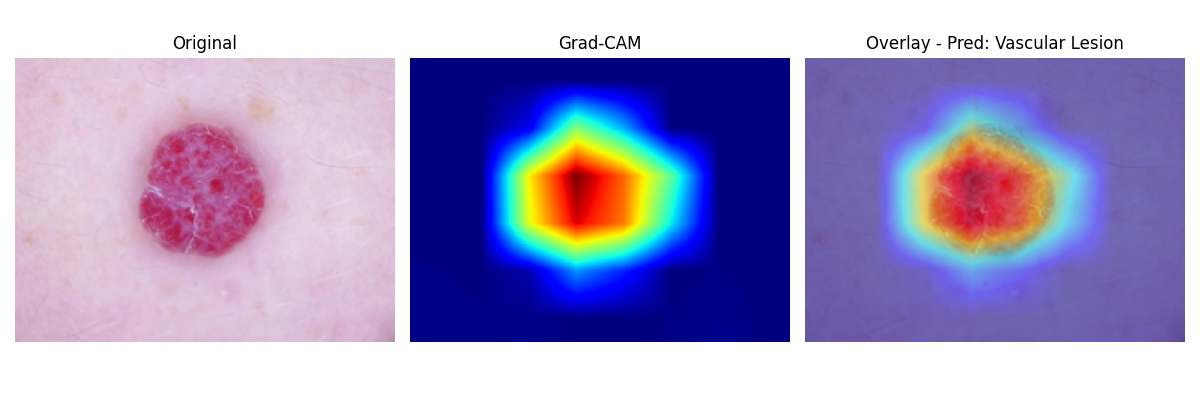
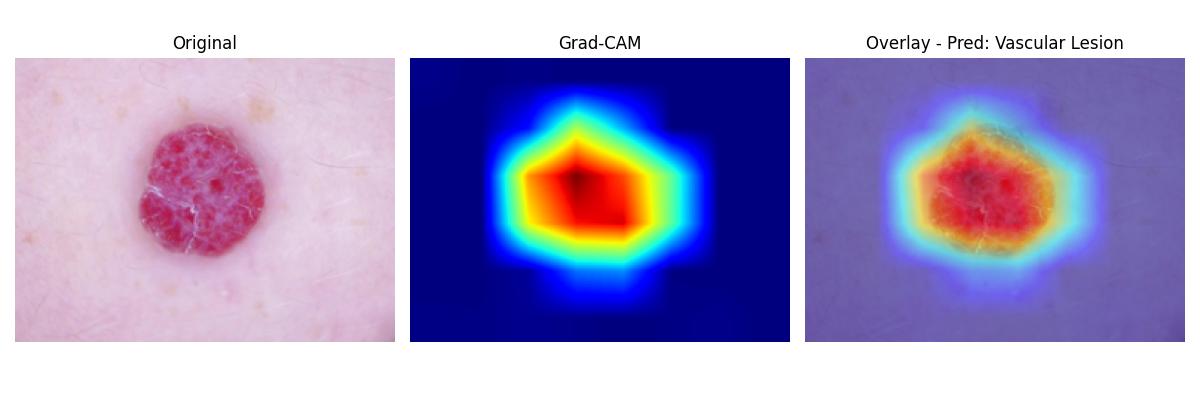
added better gradcam figure

Changed region(s): [[0.4008, 0.24, 0.5858, 0.78], [0.8017, 0.45, 0.925, 0.72], [0.74, 0.33, 0.8017, 0.51]]

diff --git a/main_improved.py b/main_improved.py
@@ -408,8 +408,8 @@ def main():
     return model, test_dataset
 
 #%% Run Training (just comment out if you just want evaluation)
-if __name__ == '__main__':
-    model, test_dataset = main()
+# if __name__ == '__main__':
+#     model, test_dataset = main()
 
 #%% EVALUATION ONLY - Load saved model and generate report results
 def evaluate_saved_model():
@@ -478,12 +478,19 @@ def evaluate_saved_model():
     plt.show()
     print("Saved: confusion_matrix_improved.png")
     
-    # Grad-CAM for each class
+    # Grad-CAM for all classes in a single figure
     print("\n" + "="*60)
     print("GENERATING GRAD-CAM VISUALIZATIONS")
     print("="*60)
     save_dir = 'gradcam_images_improved'
     os.makedirs(save_dir, exist_ok=True)
+    
+    model.eval()
+    target_layer = model.backbone.features[-1]
+    gradcam = GradCAM(model, target_layer)
+    
+    fig, axes = plt.subplots(7, 3, figsize=(15, 28))
+    
     for i, class_name in enumerate(CLASSES):
         sample = metadata[metadata['dx'] == class_name].iloc[0]
         img_name = sample['image_id'] + '.jpg'
@@ -491,8 +498,33 @@ def evaluate_saved_model():
             img_path = img_dir / img_name
             if img_path.exists():
                 print(f"  {CLASS_NAMES[i]}...")
-                visualize_gradcam(model, str(img_path), get_transforms('test'), f'{save_dir}/gradcam_improved_{class_name}.png')
+                img = Image.open(str(img_path)).convert('RGB')
+                input_tensor = get_transforms('test')(img).unsqueeze(0).to(device)
+                cam, pred_class = gradcam.generate_cam(input_tensor)
+                
+                img_resized = img.resize((256, 192))
+                img_array = np.array(img_resized) / 255.0
+                heatmap = cv2.applyColorMap(np.uint8(255 * cam), cv2.COLORMAP_JET)
+                heatmap = cv2.cvtColor(heatmap, cv2.COLOR_BGR2RGB) / 255.0
+                overlay = 0.5 * img_array + 0.5 * heatmap
+                
+                axes[i, 0].imshow(img_array)
+                axes[i, 0].set_title(f'{CLASS_NAMES[i]} - Original', fontsize=15, fontweight='bold')
+                axes[i, 0].axis('off')
+                
+                axes[i, 1].imshow(cam, cmap='jet')
+                axes[i, 1].set_title(f'{CLASS_NAMES[i]} - Grad-CAM', fontsize=15, fontweight='bold')
+                axes[i, 1].axis('off')
+                
+                axes[i, 2].imshow(overlay)
+                axes[i, 2].set_title(f'{CLASS_NAMES[i]} - Overlay (Pred: {CLASS_NAMES[pred_class]})', fontsize=15, fontweight='bold')
+                axes[i, 2].axis('off')
                 break
+    
+    plt.tight_layout()
+    plt.savefig(f'{save_dir}/gradcam_all_classes.png', dpi=150, bbox_inches='tight')
+    plt.show()
+    print(f"Saved: {save_dir}/gradcam_all_classes.png")
     
 
     print(f"""

diff --git a/main_original.py b/main_original.py
@@ -395,8 +395,8 @@ def main():
     return model, test_dataset
 
 #%% Run Training (just comment out if you just want evaluation)
-if __name__ == '__main__':
-    model, test_dataset = main()
+# if __name__ == '__main__':
+#     model, test_dataset = main()
 
 #%% EVALUATION ONLY - Load saved model and generate report results
 def evaluate_saved_model():
